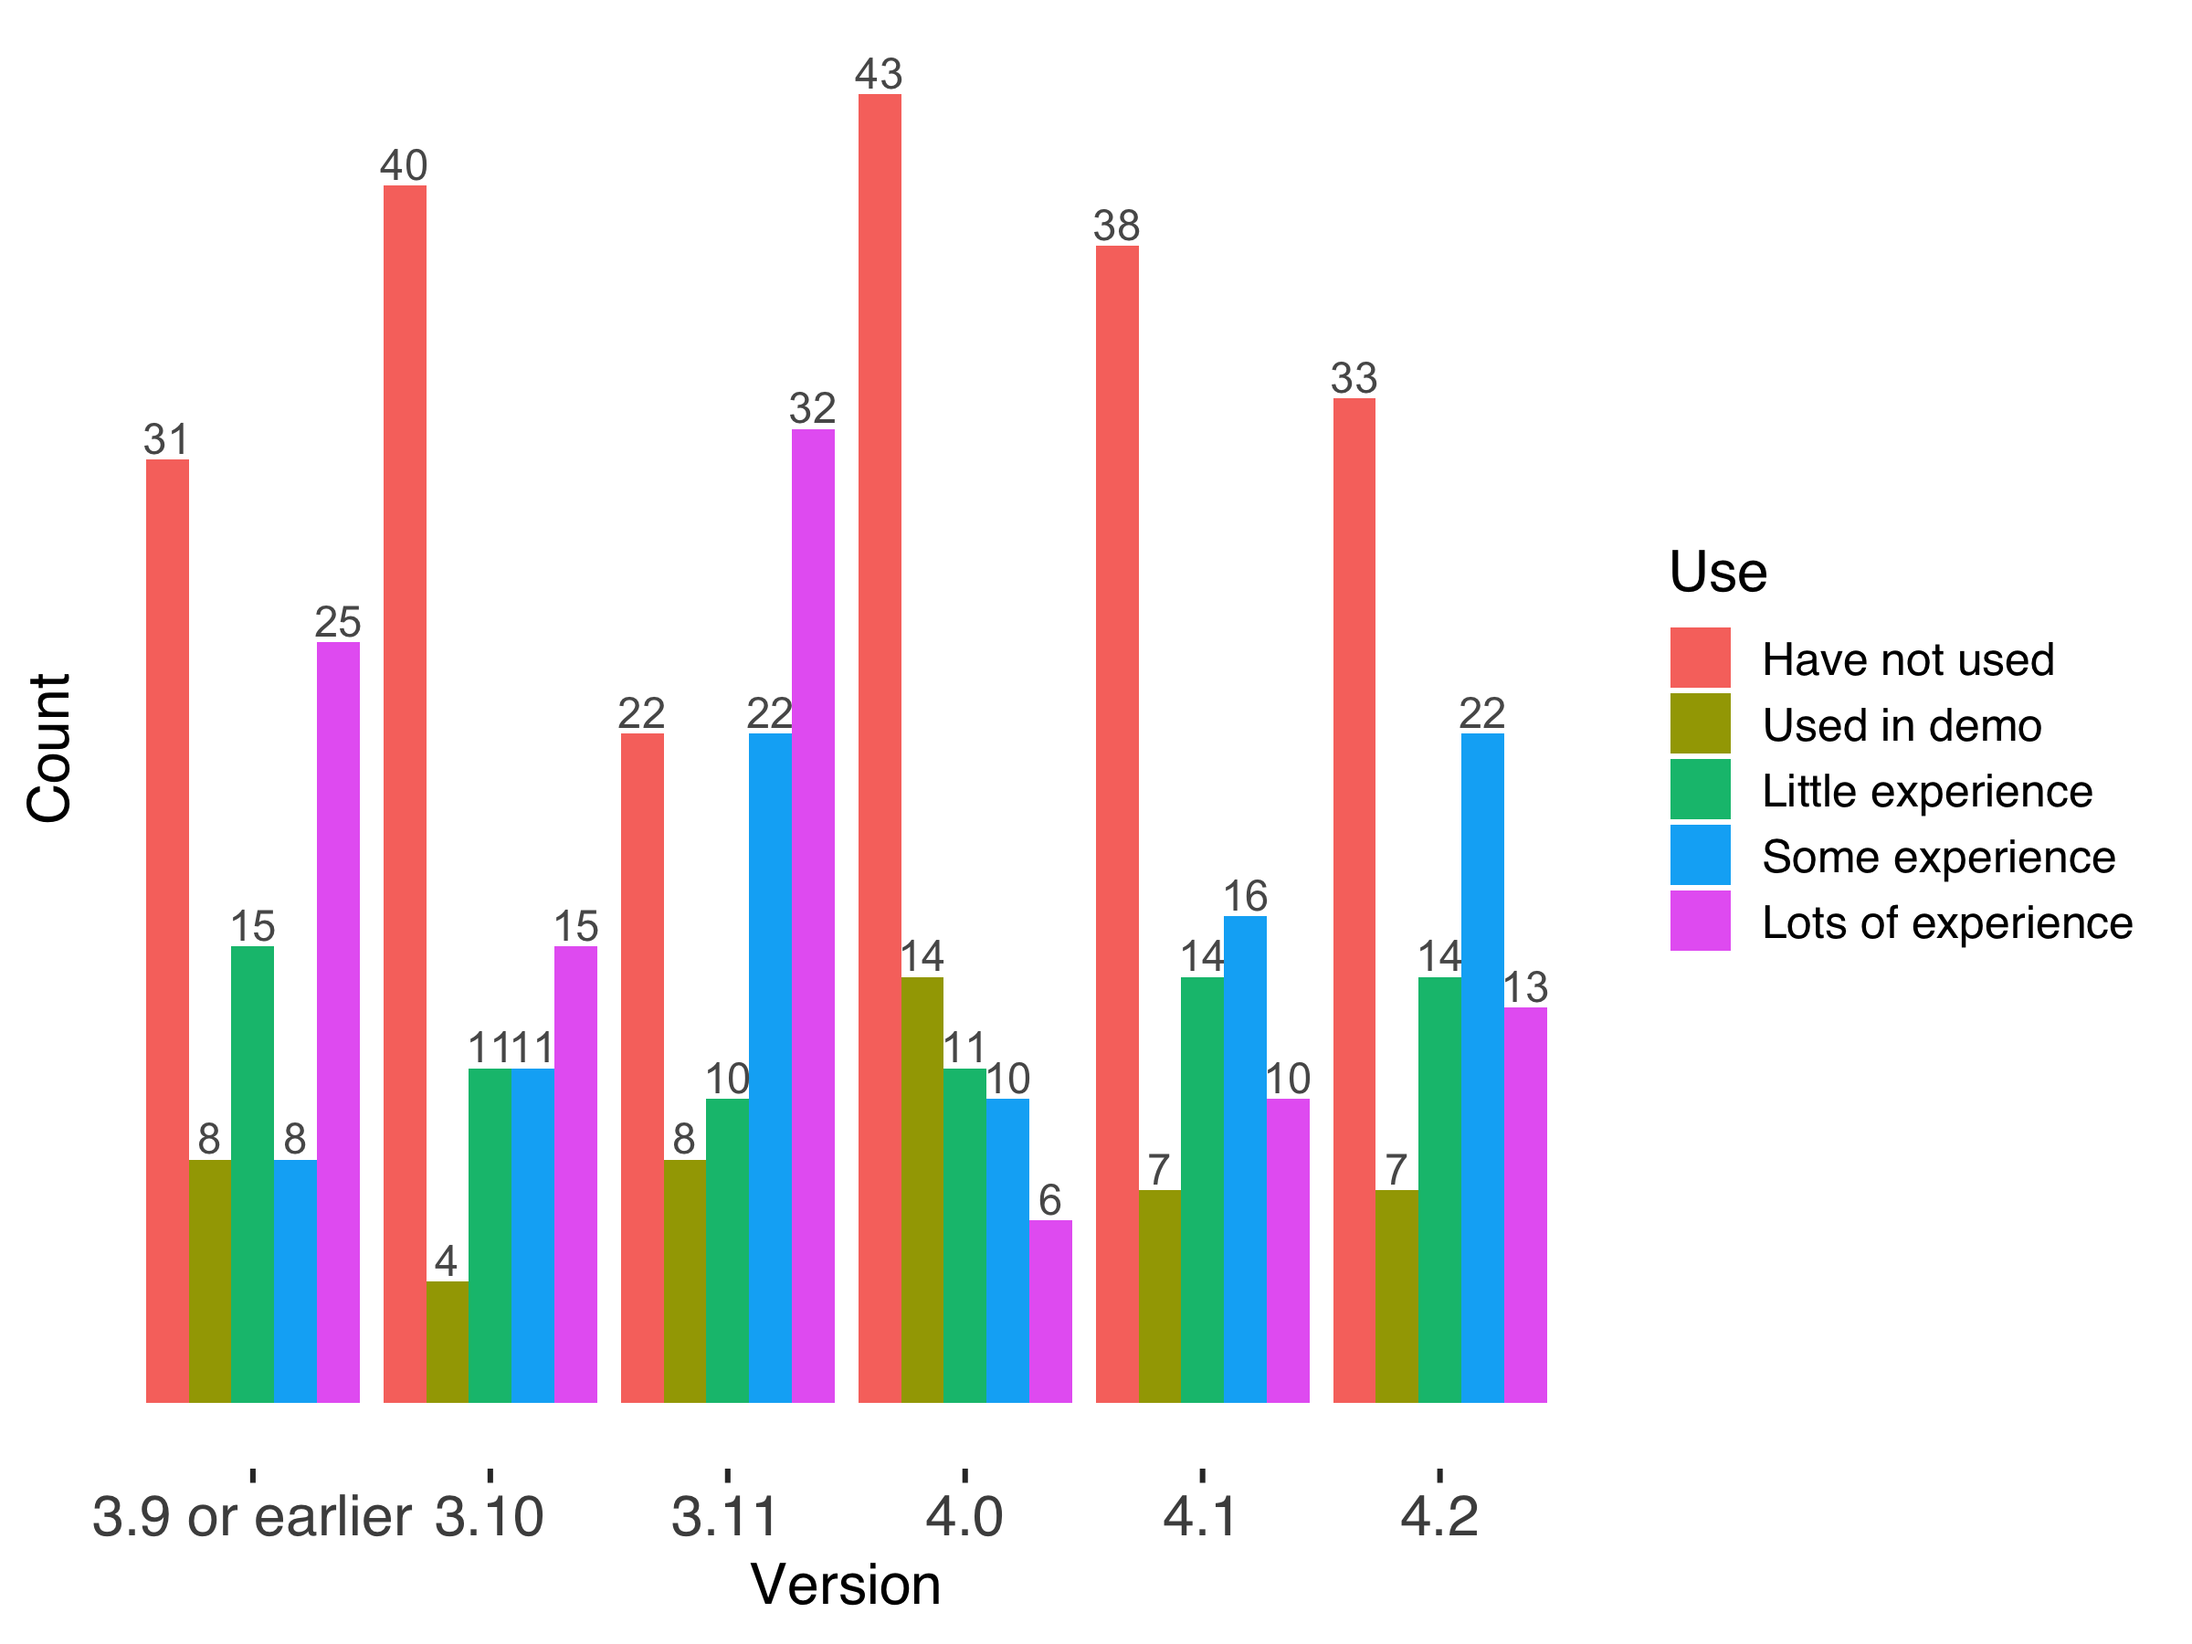
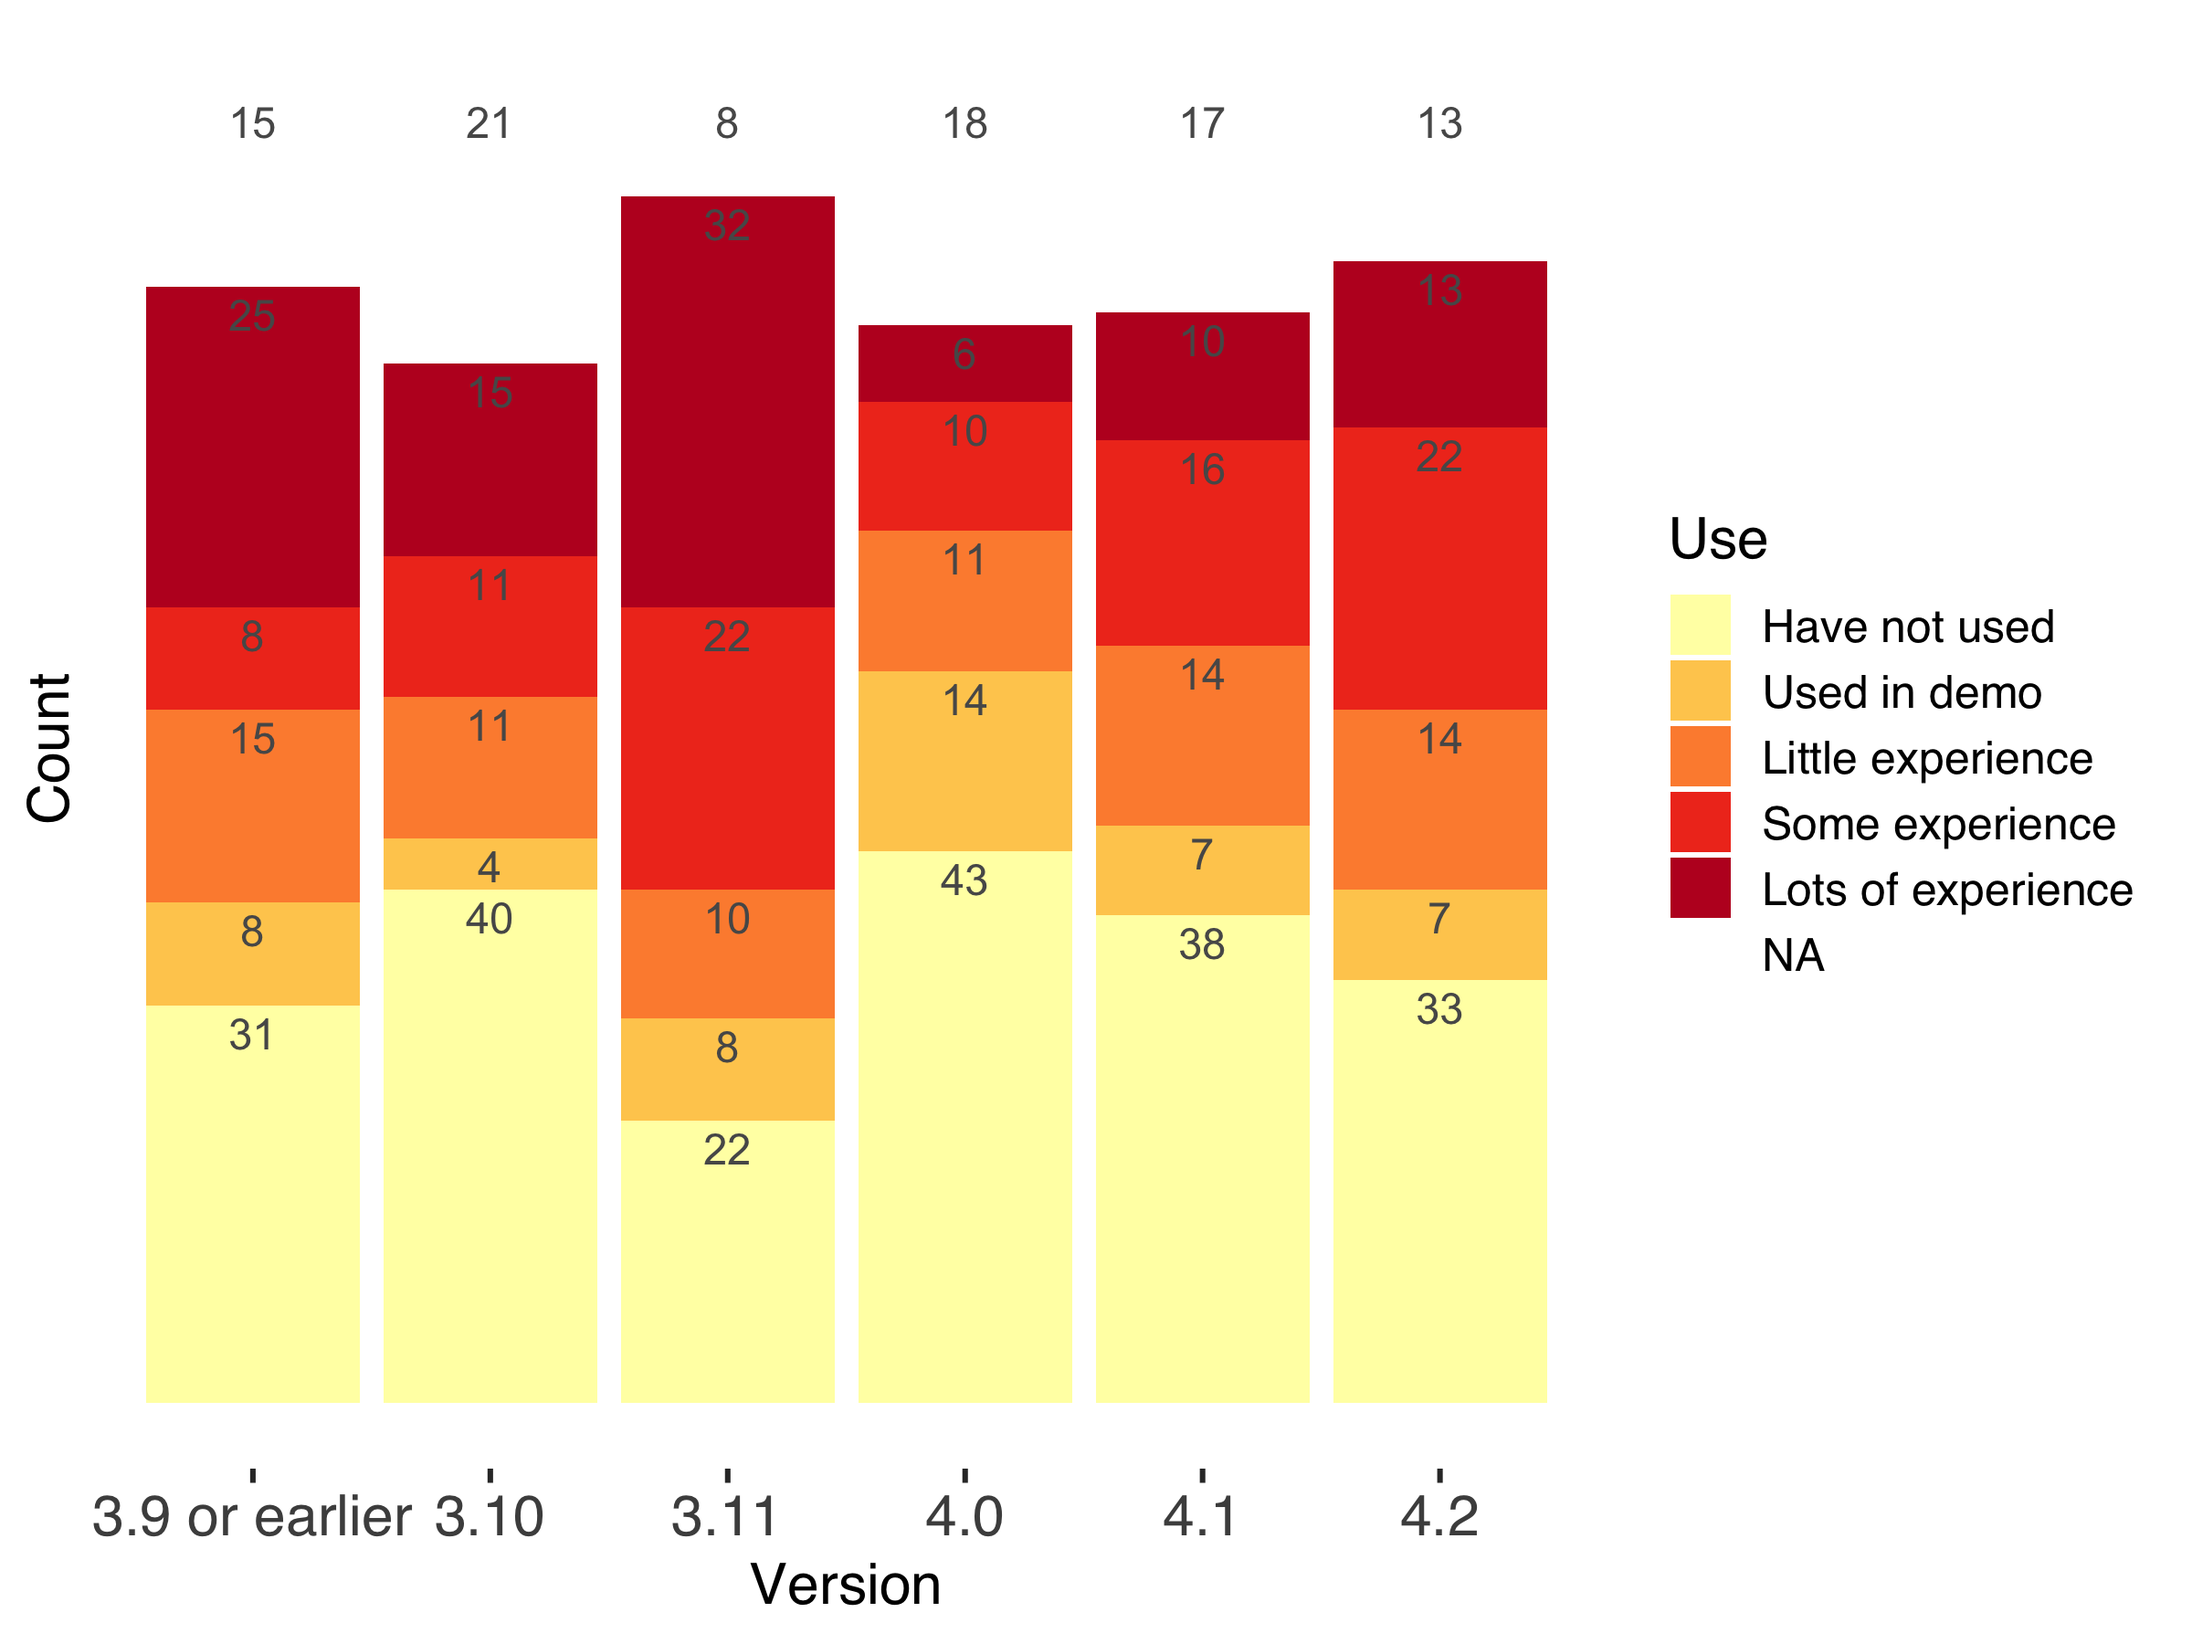
vers plot

diff --git a/blog_post/Investigating OpenShift Alerts.md b/blog_post/Investigating OpenShift Alerts.md
@@ -20,9 +20,9 @@ Monitoring is a critical aspect of architecting and maintaining a successful Ope
 - **etcdHighCommitDurations** etcd cluster "etcd": 99th percentile commit durations 100s on etcd instance cluster-health.
 - **ClusterOperatorDegraded** Cluster operator insights has been degraded for 10 mins. Operator is degraded because Unable to report: gateway server reported unexpected error code: 415, and cluster upgrades will be unstable.
 
-We used an online survey platform, *Qualtrics*, to implement our study. It began with some background questions to get a sense of our participants' experience levels and typical usage patterns. After this, we displayed 5 of 11 alerts (randomly) to each user. After viewing an alert and it's accompanying alert description, we asked users how confident they felt in their ability to resolve the alert on a scale from 1-7, 1 being the least confidence and 7 being the most confident. We also allowed them to write in why they gave the numerical score they chose.
+We used an online survey platform, *Qualtrics*, to implement our study. The survey began with background questions about the participants' experience levels and typical usage patterns. After, we displayed 5 of 11 alerts (randomly) to each user. After viewing an alert and it's accompanying alert description, we asked users how confident they felt in their ability to resolve the alert on a scale from 1-7, 1 being the least confidence and 7 being the most confident. We also allowed them to write in why they gave the numerical score they chose.
 
-Unlike many applications and software, OpenShift is often deployed 'on-premise' so that standard product analytics are not possible to collect. This poses a unique challenge to assessing user behavior in OpenShift. To get around this, we implemented a [first-click test](https://www.usability.gov/how-to-and-tools/methods/first-click-testing.html) where users clicked on a web console overview dashboard screenshot. This allowed us to have some behavioral assessment on their strategy for resolving each alert. 
+Unlike many applications and software, OpenShift is often deployed 'on-premise' so that standard product analytics are not possible to collect. This poses a unique challenge to assessing user behavior in OpenShift. To get around this, we implemented a [first-click test](https://www.usability.gov/how-to-and-tools/methods/first-click-testing.html) where users clicked on a web console overview dashboard screenshot. This allowed us to have some behavioral assessment on their strategy for resolving each alert. This first-click component occurred after each confidence rating with the same alert and allowed for an open response to describe why they clicked the area they did. 
 
 ![](https://github.com/carljpearson/openshift_alerting/blob/master/img/1-KubePodNotReady.png?raw=true)
 
@@ -30,4 +30,9 @@ Unlike many applications and software, OpenShift is often deployed 'on-premise' 
 
 ### Participants 
 
-Most participants
+Participants varied a lot in experience levels, but tended to be intermediate users with a high level of daily use. A fair proportion of users reported no experience, and these responses were excluded from some analyses. 
+
+![](https://github.com/carljpearson/openshift_alerting/blob/master/plots/exp_and_use.png?raw=true)
+
+The bulk of participants' version experience was with 3.x versions, but there were reports of experience with 4.x versions, but
+
